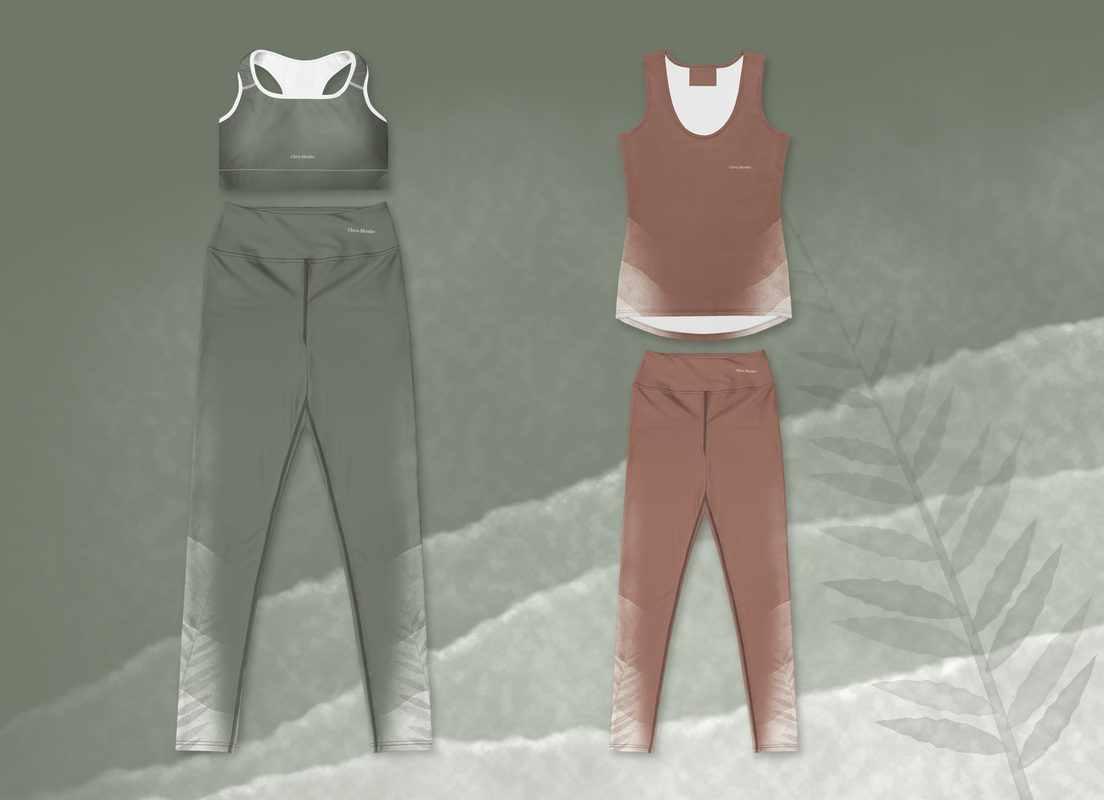
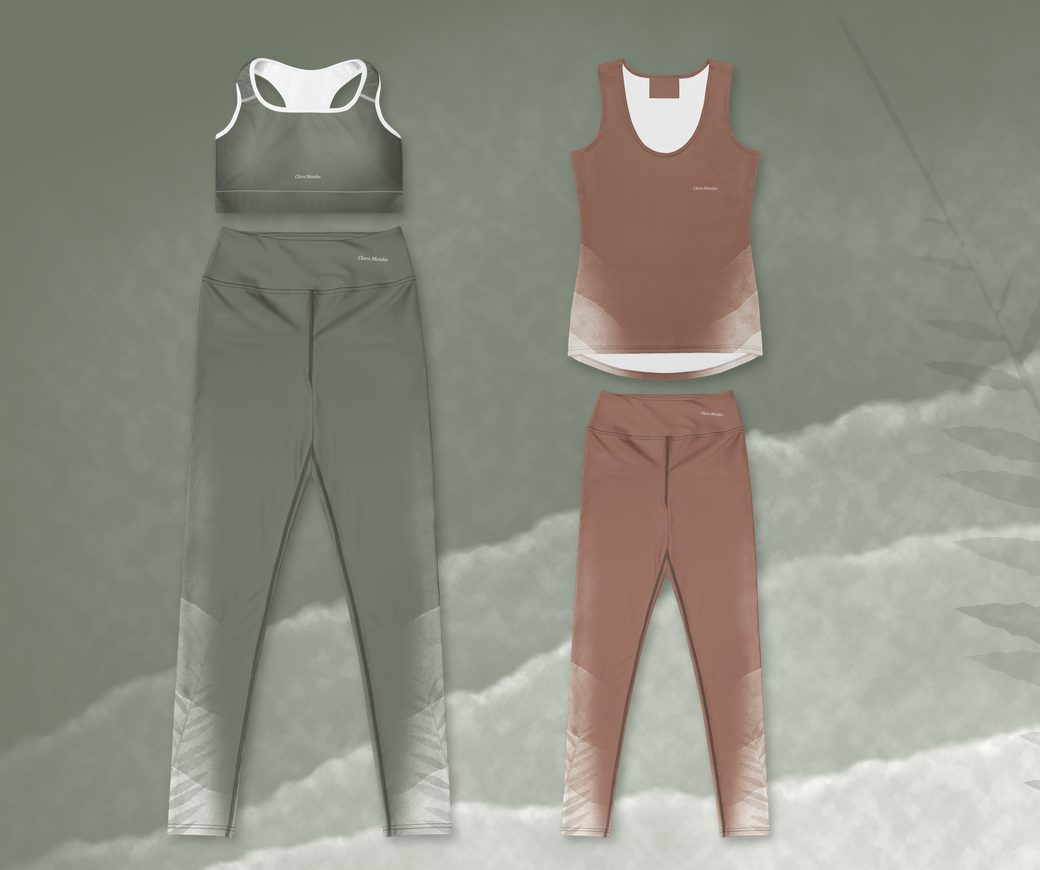
Quiet Current hero: keep both looks clear of the nav and title
Recomposed the hero image so both outfits sit below the floating nav and
right of the title at 1280-1920px, and fit the phone crop. Also lightened
the left shade and added a scroll margin so "All rates" lands with the
Shipping row's title below the sticky header.

diff --git a/app/routes/collections.all.tsx b/app/routes/collections.all.tsx
@@ -1618,7 +1618,7 @@ const collectionCss = `
    left-side shade for the title instead of the interior's multiply wash. */
 .cv-hero.cv-hero--custom {
   background-image:
-    linear-gradient(90deg, rgba(24,22,19,0.62) 0%, rgba(24,22,19,0.4) 34%, rgba(24,22,19,0) 60%),
+    linear-gradient(90deg, rgba(24,22,19,0.42) 0%, rgba(24,22,19,0.24) 38%, rgba(24,22,19,0) 56%),
     var(--cv-hero-image);
   background-position: center;
 }
@@ -1647,7 +1647,7 @@ const collectionCss = `
     background-image:
       linear-gradient(180deg, rgba(24,22,19,0.6) 0%, rgba(24,22,19,0.42) 55%, rgba(24,22,19,0.2) 100%),
       var(--cv-hero-image-mobile);
-    background-position: right center;
+    background-position: center;
   }
 
   .cv-hero-subtitle {

diff --git a/app/styles/app.css b/app/styles/app.css
@@ -1546,6 +1546,10 @@ button {
 }
 
 /* Quiet Current activewear: shipping line by the price, rate and size tables */
+.product-detail[id] {
+  scroll-margin-top: calc(var(--header-height, 76px) + 24px);
+}
+
 .apparel-shipping-line {
   color: var(--color-muted);
   font-size: 0.9rem;
